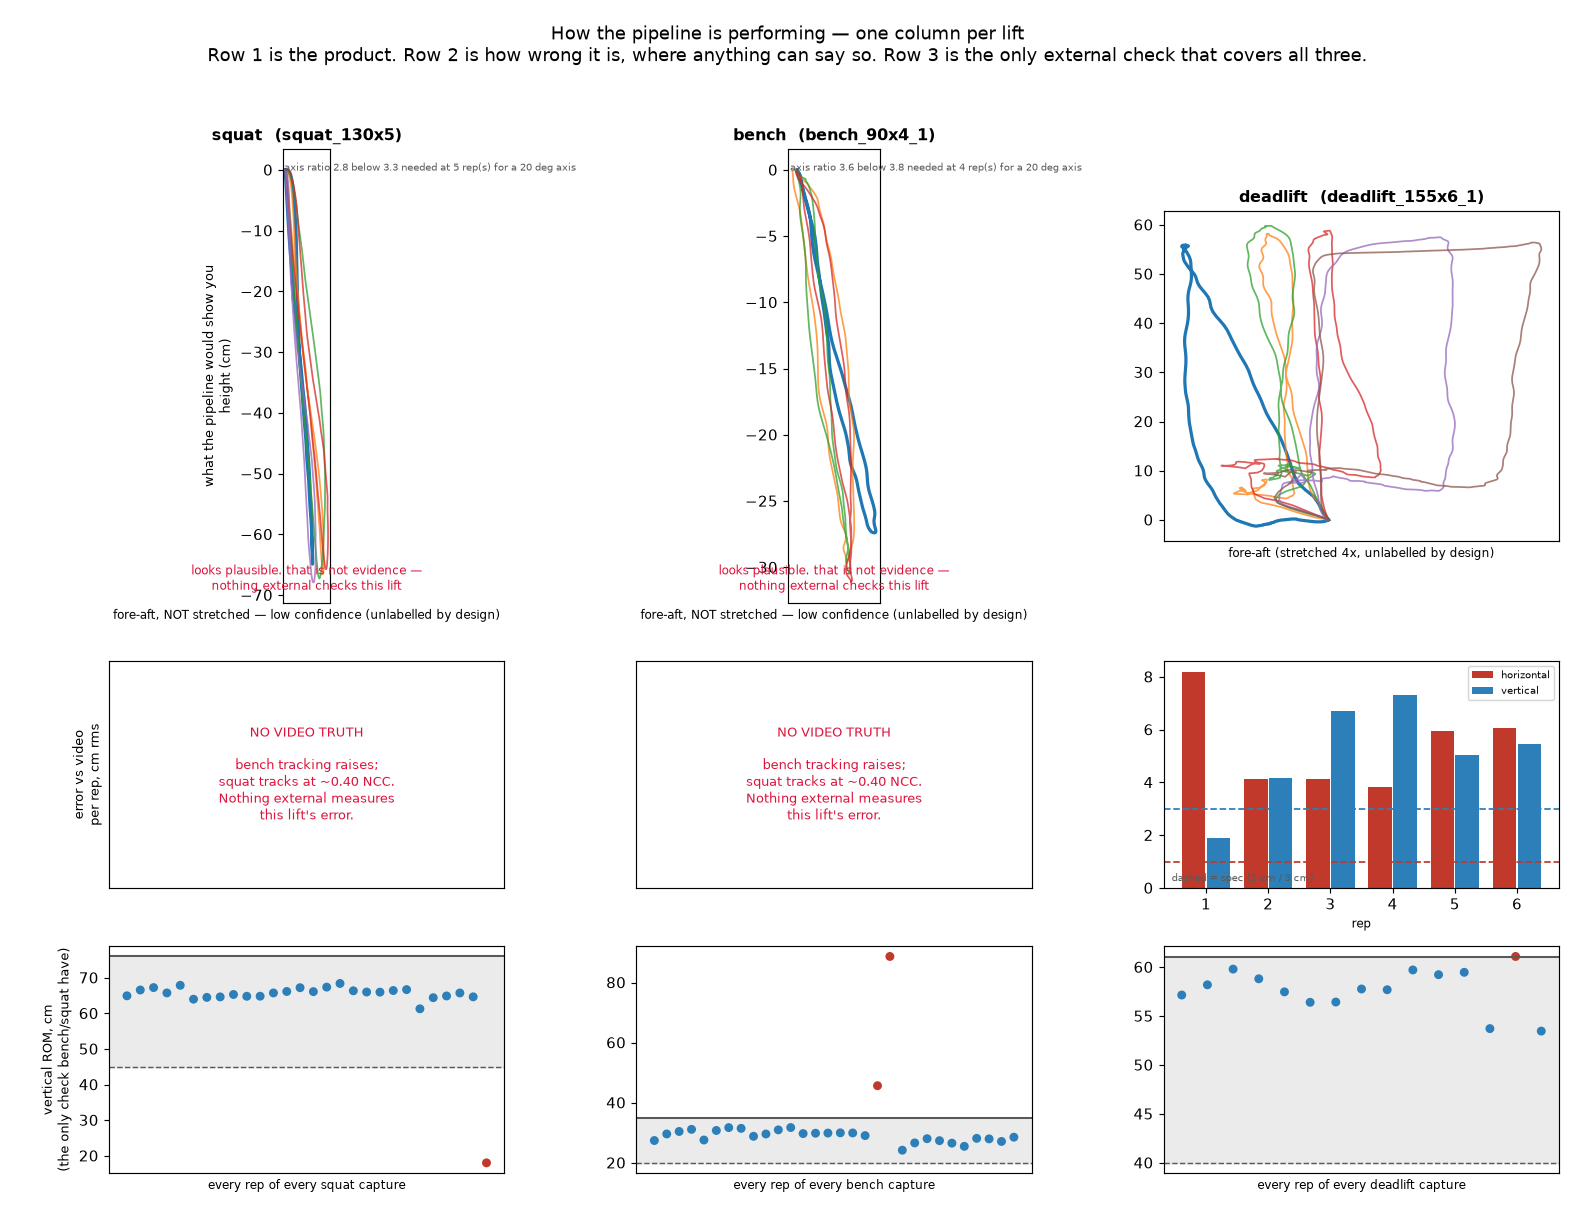
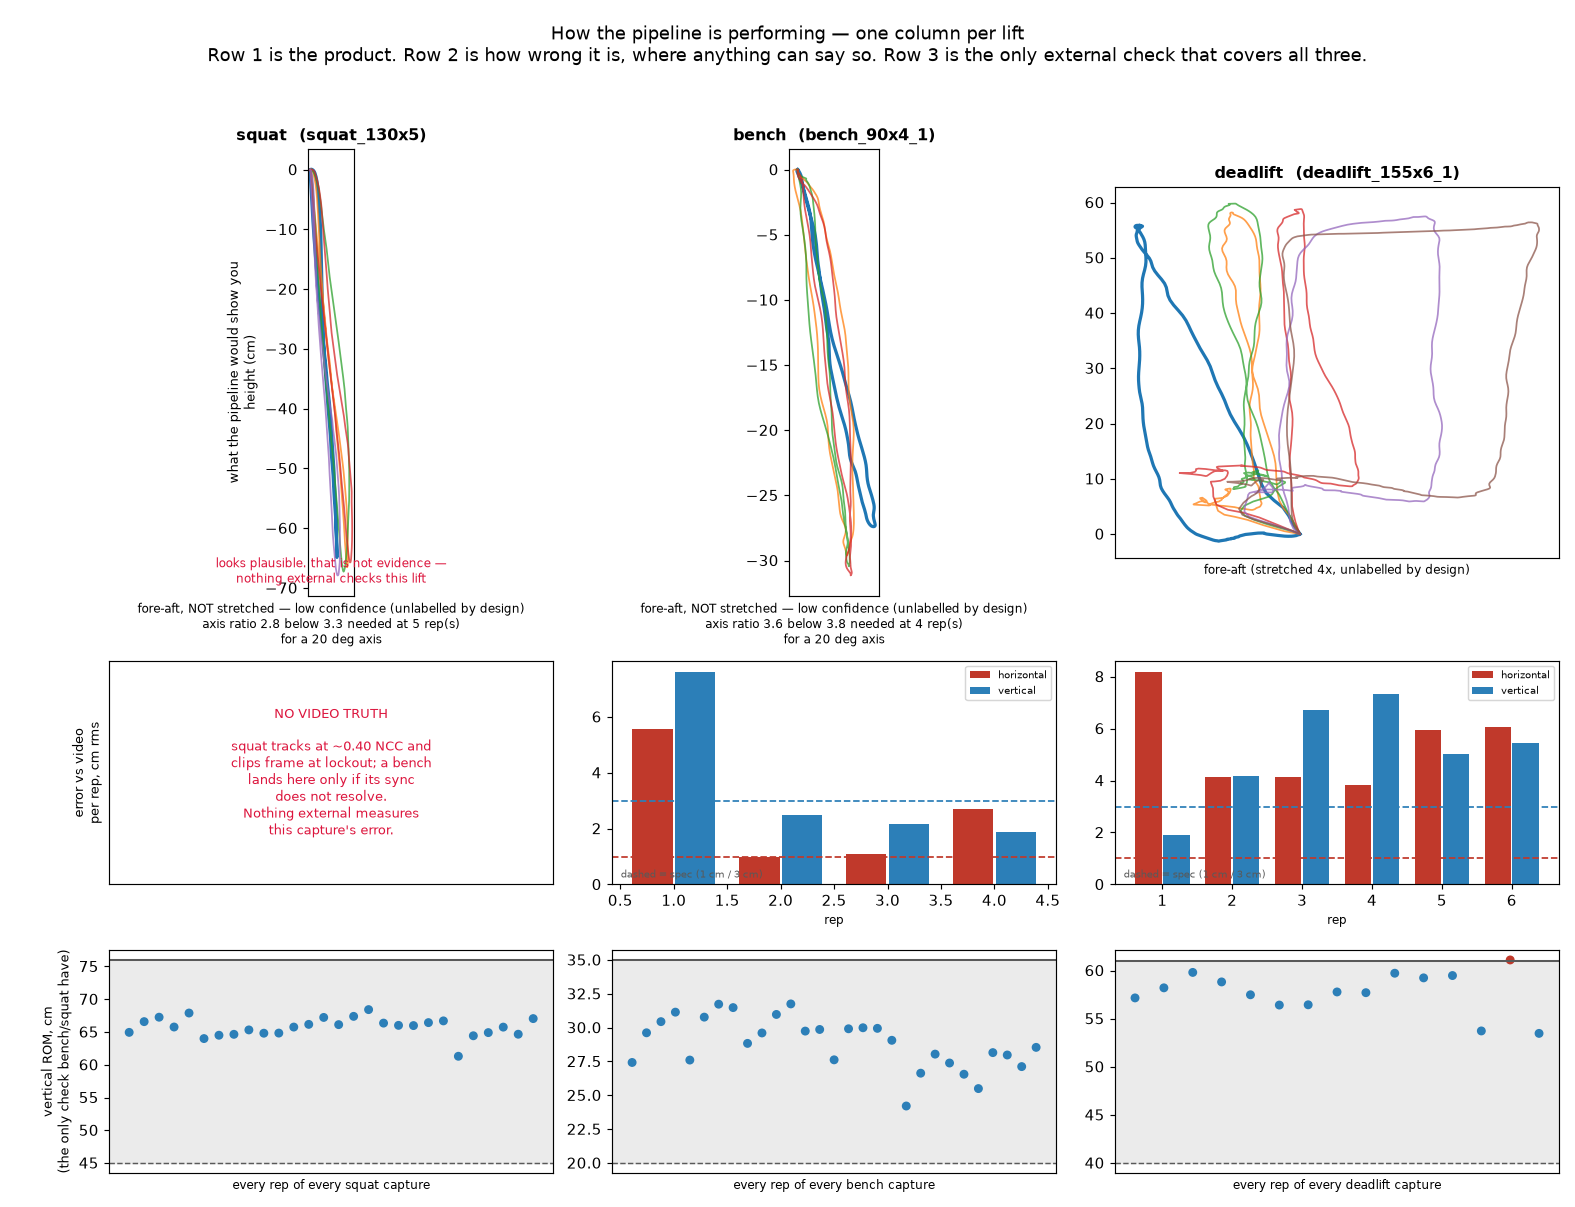
Draw the reconstruction against the truth, and fix a 20-rep counting error
Two figures and a correction.

analysis/33_reconstruction_vs_truth.png (run.py --vstruth) draws the pipeline
over the video for every capture that has truth. It is the figure that says what
the error numbers MEAN: on deadlift the video traces cluster tightly while the
pipeline draws 10-30 cm rectangles wandering fore-aft across the set, which is
beats_null 0.70/0.35/0.13 made visible; on bench the two families share a shape
and bench_90x4_2/_3 genuinely track. Read it beside 27_bar_paths.png, which
draws the same reconstructions with no truth next to them — several of those
panels look entirely plausible and are wrong by 5-15 cm.

metrics.vs_truth now carries curve_video and curve_pipeline per rep so the plot
draws the real comparison instead of re-projecting by hand. plot.py's docstring
records what that cost last time: step 8 was on screen in two figures while the
stage had never executed.

Regenerated 26_pipeline_scorecard and 27_bar_paths, both of which predated C5 —
27 was still captioned "9 of 17" with bench_spoto_90x5_1 at 6 reps and
squat_160x1 at 18 cm. It is 11 of 17 now.

THE CORRECTION. data/raw/ holds 17 rep-labelled captures totalling 72 reps
(bench 7/29, deadlift 3/15, squat 7/28), not 52. The arithmetic: 10 captures
held 44 reps, the 2026-07-30 session added 7 captures carrying 28 more, and
44 + 28 = 72. Every post-session total was understated by 20 reps, across
README.md, CLAUDE.md, TASKS.md, analysis/README.md and two test files. Counting
[…]

diff --git a/src/plot.py b/src/plot.py
@@ -507,6 +507,63 @@ def plot_momentum_closure(groups: dict, traces: dict):
     return fig
 
 
+def plot_vs_truth_paths(results: dict, stretch: bool = True):
+    """The reconstruction drawn on top of the video's bar path, per capture.
+
+    `results` maps stem -> a `metrics.vs_truth` dict. Every capture with video
+    gets a panel; reps are overlaid, the video in grey and the pipeline in
+    colour, each rep start-aligned exactly as step 9 aligns them.
+
+    This is the figure that says what the error NUMBERS mean. "0.64 cm rms" and
+    "15.44 cm rms" are abstractions until you see that one is a bar path with a
+    wobble and the other does not resemble the movement at all.
+
+    The horizontal axis IS labelled here, which `plot_paths` refuses to do and
+    is right to refuse. The difference is that this panel shows the truth beside
+    the claim, so the reader can see how far the claim can be trusted; a
+    product plot shows only the claim.
+    """
+    stems = list(results)
+    cols = min(5, len(stems))
+    rows = -(-len(stems) // cols)
+    fig, axes = plt.subplots(rows, cols, figsize=(3.5 * cols, 5.4 * rows),
+                             squeeze=False)
+    flat = axes.ravel()
+
+    for ax, stem in zip(flat, stems):
+        m = results[stem]
+        good = [r for r in m["per_rep"] if r.get("covered")]
+        for i, r in enumerate(good):
+            vid, pipe = r["curve_video"] * 100, r["curve_pipeline"] * 100
+            ax.plot(vid[:, 0], vid[:, 1], color="0.55", lw=2.0,
+                    label="video (truth)" if i == 0 else None, zorder=2)
+            ax.plot(pipe[:, 0], pipe[:, 1], lw=1.3, alpha=0.9,
+                    label="pipeline" if i == 0 else None, zorder=3)
+        if stretch:
+            ax.set_aspect(1.0 / STRETCH)
+        beats = m["beats_null"]
+        verdict = "beats" if beats > 1 else "LOSES TO"
+        ax.set_title(f"{stem}\n{m['pipeline_h_rms']:.2f} cm rms   "
+                     f"{verdict} flat line ({beats:.2f}x)",
+                     fontsize=8, color="0.15")
+        ax.set_xlabel("fore-aft (cm)", fontsize=8)
+        ax.set_ylabel("vertical (cm)", fontsize=8)
+        ax.tick_params(labelsize=7)
+        ax.grid(alpha=0.25)
+        ax.legend(fontsize=6, frameon=False, loc="best")
+    for ax in flat[len(stems):]:
+        ax.axis("off")
+
+    fig.suptitle(
+        "The reconstruction (colour) against the video (grey), every capture "
+        "that has truth. Reps start-aligned, fore-aft stretched 4x as step 9 "
+        "draws it.\nSquat is absent because vs_truth refuses it. Bench "
+        "distances carry ~4% from a hand-placed seed; read metrics.bench_sync "
+        "before quoting them.", fontsize=10)
+    fig.tight_layout(rect=(0, 0, 1, 0.97))
+    return fig
+
+
 def plot_splice_rejected(closure: dict, h_rms: dict, rom_trace: tuple,
                          rom_bound: float):
     """B6 — the impact splice does what it claims and loses anyway.

diff --git a/run.py b/run.py
@@ -11,6 +11,7 @@
     python run.py --bias               # B6: constant-bias corrections vs the video
     python run.py --closure            # C11: vertical momentum, bench vs deadlift
     python run.py --splice             # B6: the impact splice, measured and rejected
+    python run.py --vstruth            # the reconstruction drawn on top of the video
     python run.py --scorecard          # how well the pipeline performs, per lift
     python run.py --paths              # step 9: the bar path itself
 
@@ -293,6 +294,45 @@ def draw_anchors() -> int:
 
     out = ROOT / "analysis" / "24_c6_two_anchors.png"
     plot.plot_anchors(anchors, lifts, exclusion, momentum).savefig(out, dpi=105)
+    print(f"wrote {out.relative_to(ROOT)}")
+    return 0
+
+
+def draw_vs_truth() -> int:
+    """Every capture with video: the reconstruction drawn on top of the truth."""
+    import matplotlib
+    matplotlib.use("Agg")
+    from src import metrics, plot, truth
+
+    raw, vid = ROOT / "data" / "raw", ROOT / "data" / "video"
+    results = {}
+    for path in sorted(raw.glob("*.csv")):
+        try:
+            lift = truth.lift_of(path)
+        except ValueError:
+            continue
+        video = pipeline.find_video(path, vid)
+        if video is None or lift == "squat":
+            continue                      # vs_truth refuses squat; see its docstring
+        result = pipeline.run(path, video=video)
+        m = result.get("vs_truth")
+        if m is None:
+            print(f"{path.stem:34s} no comparison: "
+                  f"{'; '.join(result['blocked']) or 'unknown'}")
+            continue
+        stem = path.stem.split("_2026")[0]
+        results[stem] = m
+        print(f"{stem:22s} {m['n_compared']}/{m['n_reps']} reps  "
+              f"h {m['pipeline_h_rms']:5.2f} cm  v {m['pipeline_v_rms']:5.2f} cm  "
+              f"beats_null {m['beats_null']:.2f}  "
+              f"sign disagree {m['reps_disagreeing_on_sign']}/{m['n_compared']}")
+
+    if not results:
+        print("no captures with a usable video comparison")
+        return 1
+
+    out = ROOT / "analysis" / "33_reconstruction_vs_truth.png"
+    plot.plot_vs_truth_paths(results).savefig(out, dpi=105)
     print(f"wrote {out.relative_to(ROOT)}")
     return 0
 
@@ -633,6 +673,8 @@ def main(argv: list[str]) -> int:
         return draw_closure()
     if "--splice" in argv:
         return draw_splice()
+    if "--vstruth" in argv:
+        return draw_vs_truth()
     if "--scorecard" in argv:
         return draw_scorecard()
 

diff --git a/tests/test_real_data.py b/tests/test_real_data.py
@@ -44,11 +44,11 @@ needs_data = pytest.mark.skipif(not CAPTURES, reason="no captures in data/raw/")
 
 # Captures whose rep COUNT is wrong. P1 recorded counting as closed at 44/44,
 # and it was, on the ten captures that existed on 2026-07-29. The 2026-07-30
-# session added seven more and took it to 51/52 — `bench_spoto_90x5_1` counted
+# session added seven more and took it to 71/72 — `bench_spoto_90x5_1` counted
 # the re-rack as a sixth rep, hidden by a REP_COUNT regex that did not match
 # the 'spoto' variant token.
 #
-# EMPTY as of 2026-07-31 (C5): counting is 52/52. The cause was
+# EMPTY as of 2026-07-31 (C5): counting is 72/72. The cause was
 # `segment._longest_cadence`'s tolerance of 1.6, which admitted the 4.50 s gap
 # between the last rep and the re-rack (4.50/2.86 = 1.573) and grew a run of
 # six that beat the true run of five on length. It is 1.45 now, the middle of a
@@ -682,7 +682,7 @@ def test_bench_rep_windows_are_in_phase_with_the_video(video, reps):
     **This is the first measurement of bench phase in the project.** Until C8
     gave bench a video clock sync there was no external time reference on this
     lift at all, and CLAUDE.md's P1 recorded the question as unverifiable. It
-    is the half of P1 that matters: counting was clean at 52/52 and window
+    is the half of P1 that matters: counting was clean at 72/72 and window
     extent was clean, while phase was untested — and phase is exactly what a
     clean count hides. The old segmenter scored a perfect 44/44 on deadlift
     while every window ran half a rep out of step.

diff --git a/src/metrics.py b/src/metrics.py
@@ -678,6 +678,13 @@ def vs_truth(result: dict, video: str | Path) -> dict:
             # all. Any reconstruction that does not beat this is adding noise
             # rather than information. See `beats_null` below.
             "null_h_rms": float(np.sqrt((vid[:, 0] ** 2).mean()) * 100),
+            # The curves themselves, (along-axis, up) in metres, sign already
+            # applied. Carried so a plot can draw the comparison without
+            # re-projecting by hand — `plot`'s module docstring records what
+            # that cost last time: step 8 was on screen in two figures while
+            # the stage had never executed.
+            "curve_video": vid,
+            "curve_pipeline": pipe,
         })
 
     good = [r for r in per_rep if r["covered"]]

diff --git a/tests/test_segmentation.py b/tests/test_segmentation.py
@@ -236,9 +236,9 @@ def test_only_a_single_has_a_degenerate_cluster():
 @needs_data
 @pytest.mark.parametrize("path", CAPTURES, ids=lambda p: p.stem)
 def test_every_window_spans_a_physically_possible_rep(path):
-    """Count AND extent, on every capture. C5's closing state: 52/52.
+    """Count AND extent, on every capture. C5's closing state: 72/72.
 
-    Counting was 51/52 and one capture counted right with the wrong window, so
+    Counting was 71/72 and one capture counted right with the wrong window, so
     both halves are asserted together. They fail independently — a count can be
     right while an extent is wrong (`squat_160x1`) and an extent can be right
     while a count is wrong (`bench_spoto_90x5_1`'s first four windows were all

diff --git a/analysis/README.md b/analysis/README.md
@@ -429,7 +429,7 @@ record of what the bounds were able to catch.
   `REP_LABEL`/`REP_COUNT` did not match the `spoto` variant token — so
   `expected_reps` was `None` and *every* count gate silently skipped all three
   of the 2026-07-30 benches. P1's "44/44 with zero false positives" was true
-  when measured, went to **51/52**, and is **52/52** since C5.
+  when measured, went to **71/72**, and is **72/72** since C5.
 - `squat_160x1` reconstructed **18.0 cm** for a single at 160 kg, a quarter of
   the ~65 cm the other squat captures give. The count was right, 1 of 1 — this
   is the failure mode P1 warns about, a window in the right number and the
@@ -672,7 +672,7 @@ Row 3 is the one check that reaches all three lifts: per-rep vertical ROM
 against `truth.VERTICAL_ROM_M`, every rep of every capture. When 27 was drawn,
 two captures fell outside the bands — `bench_spoto_90x5_1`'s spurious sixth
 window and `squat_160x1`'s 18 cm fragment. **C5 fixed both on 2026-07-31**, so
-all 52 reps now sit inside the bands bar `deadlift_180x3` rep 2 at 61.1 cm,
+all 72 reps now sit inside the bands bar `deadlift_180x3` rep 2 at 61.1 cm,
 which is inside the gate's 2 cm slack. Redraw 27 to see the current state.
 
 **What 21 shows on the current pipeline.** Rows 3 and 4 are the drift: vertical
@@ -740,7 +740,7 @@ noise is how you invent faults.
   defective captures, old windows above the axis and new below, each labelled
   with its centimetres of vertical.
 
-Counting is **52/52** and every rep of all 17 captures is inside its ROM band
+Counting is **72/72** and every rep of all 17 captures is inside its ROM band
 except `deadlift_180x3` rep 2 at 61.1 cm, which is inside the gate's slack and
 is a different problem. Fifteen captures are unchanged rep for rep.
 
@@ -1088,3 +1088,43 @@ bump survives it. Panel 3 shows it directly. Every correction localised in time
 inherits this, including the time-varying models B6 has left. **B6 is blocked on
 B3**, and B3's value is no longer its own 2–4 cm but that it unblocks
 everything after it.
+
+## The reconstruction against the truth, drawn (2026-07-31)
+
+- `33_reconstruction_vs_truth.png` — every capture with video, pipeline in
+  colour over the video in grey. `python run.py --vstruth`.
+
+The figure that says what the error NUMBERS mean. "0.64 cm rms" and "15.44 cm
+rms" are abstractions until you see that one is a bar path with a wobble in it
+and the other does not resemble the movement at all.
+
+Read it alongside `27_bar_paths.png`, which draws the same reconstructions with
+NO truth beside them — which is what a user would see. The pair is the argument
+for why this project measures: several panels in 27 look entirely plausible and
+are wrong by 5–15 cm.
+
+**What it shows that a table does not.** On deadlift the video traces cluster
+tightly while the pipeline draws 10–30 cm rectangles that wander fore-aft across
+the set — the `beats_null` numbers of 0.70/0.35/0.13 made visible. On bench the
+two families have broadly the same diagonal shape, and `bench_90x4_2` and `_3`
+genuinely track. The fore-aft axis is LABELLED here, which `plot_paths` refuses
+to do and is right to refuse: this panel shows the truth beside the claim, so a
+reader can see how far the claim goes, where a product plot shows only the claim.
+
+`metrics.vs_truth` now carries `curve_video` and `curve_pipeline` per rep so the
+plot draws the real comparison rather than re-projecting by hand — the mistake
+`plot.py`'s docstring records, where step 8 was on screen in two figures while
+the stage had never executed.
+
+## Capture inventory, corrected (2026-07-31)
+
+`data/raw/` holds **17 rep-labelled captures totalling 72 reps** — bench 7/29,
+deadlift 3/15, squat 7/28 — plus four diagnostic logs (two stationary, two drop
+tests). All 72 segment correctly.
+
+**This corrects a figure that had been wrong across six files.** The docs said
+52 reps and "52/52" counting. The arithmetic: 10 captures held 44 reps, the
+2026-07-30 session added 7 captures carrying 28 more, and 44 + 28 = 72. The
+44/44 figures from before that session are correct and are left alone; every
+post-session total was understated by 20 reps. Counting is **72/72** and the
+pre-C5 state was **71/72**.

diff --git a/TASKS.md b/TASKS.md
@@ -29,9 +29,9 @@ because SNR tests whether a mean is reproducible, not whether it is bias.
 ### A1 — rep segmentation `e8a8a0b` `efd5f5c`
 **44/44 reps across all 10 captures, zero false positives**, against the old
 stationarity segmenter's 0/14 bench and 1/15 squat. *(True as measured. The
-2026-07-30 session took it to **51/52** — see P1; `bench_spoto_90x5_1` counted
+2026-07-30 session took it to **71/72** — see P1; `bench_spoto_90x5_1` counted
 the re-rack as a sixth rep, and the variant token in its name had kept it out
-of the gates entirely. **C5 restored it to 52/52 on 2026-07-31.**)* Shape
+of the gates entirely. **C5 restored it to 72/72 on 2026-07-31.**)* Shape
 matching in a
 fixed-*duration* window, floor-impact anchors where the lift provides them
 (6/6, 6/6, 3/3), and lateness as the tie-break. Every rep window now contains
@@ -232,9 +232,9 @@ Four results, in descending order of how much they change what we believe:
    radius quantisation and tracker drift all tested and ruled out.
 2. **The reconstruction passes on all 17 captures** bar two known defects, and
    is more self-consistent on vertical ROM than the video judging it.
-3. **Rep counting went to 51/52, not 44/44** — `bench_spoto_90x5_1` counted the
+3. **Rep counting went to 71/72, not 44/44** — `bench_spoto_90x5_1` counted the
    re-rack, hidden by a regex that did not match the variant token in its name.
-   *Fixed by C5 on 2026-07-31; counting is 52/52.*
+   *Fixed by C5 on 2026-07-31; counting is 72/72.*
 4. **`squat_160x1` reconstructed 18.0 cm at a correct count of 1 of 1** — the
    first right-count-wrong-window failure any gate here has caught.
    *Fixed by C5; it reads 67.0 cm.*
@@ -593,7 +593,7 @@ B2 are where the error actually is; B3 dropped because measurement showed it
 worth 2–4 cm, not 15.
 
 ### C5 — DONE 2026-07-31. Both segmenter failures fixed, by two mechanisms
-Counting is **52/52** and every rep of all 17 captures sits inside its ROM band
+Counting is **72/72** and every rep of all 17 captures sits inside its ROM band
 bar `deadlift_180x3` rep 2 at 61.1 cm, which is inside the gate's slack and is a
 different problem. Fifteen captures are unchanged rep for rep. Four lines of
 behaviour changed; `WRONG_REP_COUNT` and `KNOWN_ROM_FAILURES` are now empty.

diff --git a/CLAUDE.md b/CLAUDE.md
@@ -138,7 +138,7 @@ The learning goal survives the lockout that used to enforce it, and it changes
 The milestone table is gone. Milestones 1–6 all passed and the project does
 not work; a schedule that reports success while the artefact fails is worse
 than no schedule. What survived it is real: the watch logger works, and
-`data/raw/` holds 17 captures, all labelled with rep counts and totalling 52
+`data/raw/` holds 17 captures, all labelled with rep counts and totalling 72
 reps (7 bench, 7 squat, 3 deadlift), plus two stationary diagnostic logs. The
 2026-07-30 session added seven of those and every one carries the C3 `phase`
 column, including a real 3.0 s closing hold. The room and warm-up captures were
@@ -149,20 +149,20 @@ say 10 and 44 reps. Both are correct as of when they were taken.
 Work the problems instead. Each is stated with the evidence that it is real,
 so it can be closed by evidence rather than by opinion.
 
-**P1 — Counting and extent are clean at 52/52; phase is now verified on
+**P1 — Counting and extent are clean at 72/72; phase is now verified on
 deadlift and bench, and open only on squat.** Rewritten 2026-07-31 by C5, and
 again the same day by C9, which answered the phase question this heading used
 to call untouched. Bench: 15 of 15 windows in phase. See *Window extent* below.
 
 *Counting:* A1 closed this at 44/44 with zero false positives, against the old
 stationary detector's 0 of 14 bench and 1 of 15 squat. That was true on the ten
-captures then held. The 2026-07-30 session broke it to 51/52 —
+captures then held. The 2026-07-30 session broke it to 71/72 —
 `bench_spoto_90x5_1` segmented a 5-rep set into **6** windows, the re-rack
 counted as a rep — hidden because `REP_LABEL` did not match the `spoto` variant
 token, so `expected_reps` was `None` and every count gate silently skipped all
 three new benches.
 
-C5 fixed it on 2026-07-31 and counting is **52/52**. The cause was
+C5 fixed it on 2026-07-31 and counting is **72/72**. The cause was
 `segment._longest_cadence`'s cadence tolerance of 1.6: that capture's five reps
 sit 2.78–2.94 s apart and the first post-set movement follows 4.50 s after the
 last, so admitting it needs 4.50/2.86 = 1.573, which 1.6 allowed — growing a run

diff --git a/README.md b/README.md
@@ -36,8 +36,8 @@ One thing works well and is verified against video: the IMU and the video agree
 on floor-impact **timing** to 11–16 ms. The same cross-modal agreement is what
 calibrates the bench clock sync, which has no such landmark of its own.
 
-Rep segmentation is the other, and it is back to **52/52** with zero false
-positives. The 2026-07-30 captures broke it to 51/52 — `bench_spoto_90x5_1`
+Rep segmentation is the other, and it is back to **72/72** with zero false
+positives. The 2026-07-30 captures broke it to 71/72 — `bench_spoto_90x5_1`
 counted the re-rack as a sixth rep of a five-rep set — and C5 fixed that on
 2026-07-31 along with a squat single whose window had landed on the re-rack.
 Counts and window *extent* are now clean on all 17 captures. Phase used to be
@@ -45,7 +45,7 @@ unverified on both bench and squat; C9 measured bench on 2026-07-31 and **15 of
 15 windows hold exactly one video chest touch**, 0.567–0.648 through the window
 against a 0.0/1.0 failure mode. **Squat's phase is still unverified** — it has
 no external anchor — and a window half a rep out of step has the right count,
-duration and amplitude, so do not read 52/52 as more than it says.
+duration and amplitude, so do not read 72/72 as more than it says.
 
 The same 2026-07-30 session showed the video ground truth is trustworthy on
 timing and horizontal but **not on vertical scale**: per-rep ROM across three
